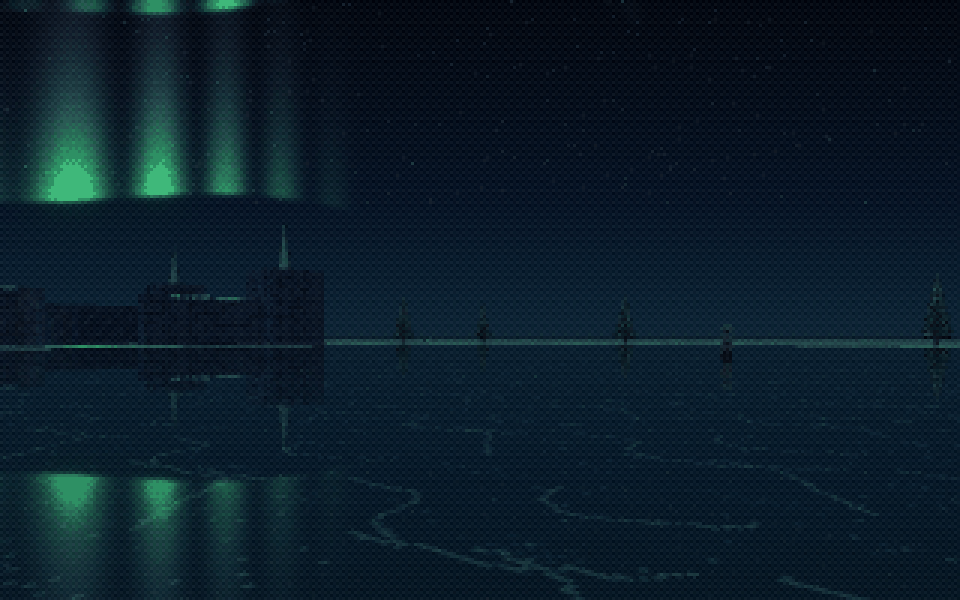
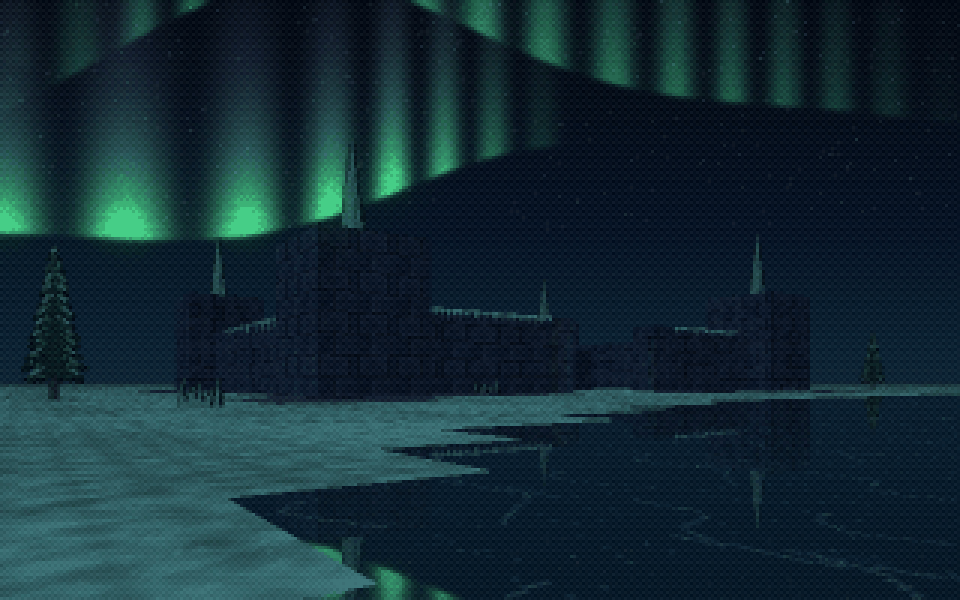
Re-shoot the aurora palace's shore view
aurora_shore now looks across the frozen lake from its western shore:
the palace and its spires under the aurora, a pine and the ice edge
framing it, the curtains doubled in the ice. It was a dark view with
the palace small on the horizon.

diff --git a/examples/aurora_palace.py b/examples/aurora_palace.py
@@ -75,7 +75,7 @@ s = scene(
          'overlays': [{'type': 'caption', 'text': 'The aurora palace', 'at': 'top', 'box': True}]},
         {'x': 23.5, 'y': 24.5, 'height': 0.45, 'look_at': [23.5, 12.0, 3.0], 'fov': 72, 'post': [GLOW]},
         {'x': 23.5, 'y': 11.4, 'height': 0.45, 'look_at': 'throne', 'fov': 62, 'post': [GLOW]},
-        {'x': 14.0, 'y': 50.0, 'height': 0.35, 'look_at': [30.0, 36.0, 1.6], 'fov': 74, 'post': [GLOW]},
+        {'x': 7.5, 'y': 34.0, 'height': 0.35, 'look_at': [24.0, 11.0, 4.0], 'fov': 74, 'post': [GLOW]},
     ],
     contact_shadows=0.3,
     supersample=2,

diff --git a/docs/ASSETS.md b/docs/ASSETS.md
@@ -1059,6 +1059,7 @@ The environments, judged on their gallery images and shots.
 ## Pass log
 
 - **2026-10-19, pass 0.** First full review of every asset, on review sheets and in the gallery. This file and `docs/asset_review.py` were added.
+- **2026-10-20, second passes.** `aurora_shore` re-shot from the lake's western shore: the palace and its spires under the aurora, a pine and the ice edge framing it (it was a dark view with the palace small on the horizon).
 - **2026-10-20, the clockwork city.** `scripts/clockwork.py`: `brass_plate`, `copper_pipes`, `clock_face`, `brass_gear`, `great_clock`. `examples/clockwork_city.py` with four gallery shots; its orrery is brass wireframes.
 - **2026-10-20, the aurora palace.** `scripts/icepalace.py`: the `aurora` sky (drawn into the panorama by `draw_aurora`), `ice_block`, `frost_wall`, `ice_floor`, `ice_spire`, `ice_throne`, `icicles`, `ice_shards`. `examples/aurora_palace.py` with four gallery shots.
 - **2026-10-20, the glowing jungle.** `scripts/glowjungle.py`: glowing variants of the jungle plants (a rim of light round every leaf, flowers by their colour), `glow_pods`, the `glow_jungle` fringe, `glow_leaves`, `lumen_floor`, `glow_water`. `examples/glow_jungle.py` with four gallery shots.

diff --git a/README.md b/README.md
@@ -295,7 +295,7 @@ A palace of ice on the shore of a frozen lake, under the aurora: curtains of gre
 | | |
 |---|---|
 | ![The ice palace across the frozen lake, the aurora over it and doubled in the ice](docs/gallery/aurora_lake.png) | ![The gate between two towers of ice, the aurora glowing over the courtyard](docs/gallery/aurora_gate.png) |
-| ![A throne of ice in a hall walled in frost, the queen beside it, the aurora overhead](docs/gallery/aurora_throne.png) | ![The aurora doubled in the frozen lake from its shore, the palace dark on the horizon](docs/gallery/aurora_shore.png) |
+| ![A throne of ice in a hall walled in frost, the queen beside it, the aurora overhead](docs/gallery/aurora_throne.png) | ![The palace across the frozen lake from its western shore, the aurora over its spires and doubled in the ice](docs/gallery/aurora_shore.png) |
 
 ## The glowing jungle
 
